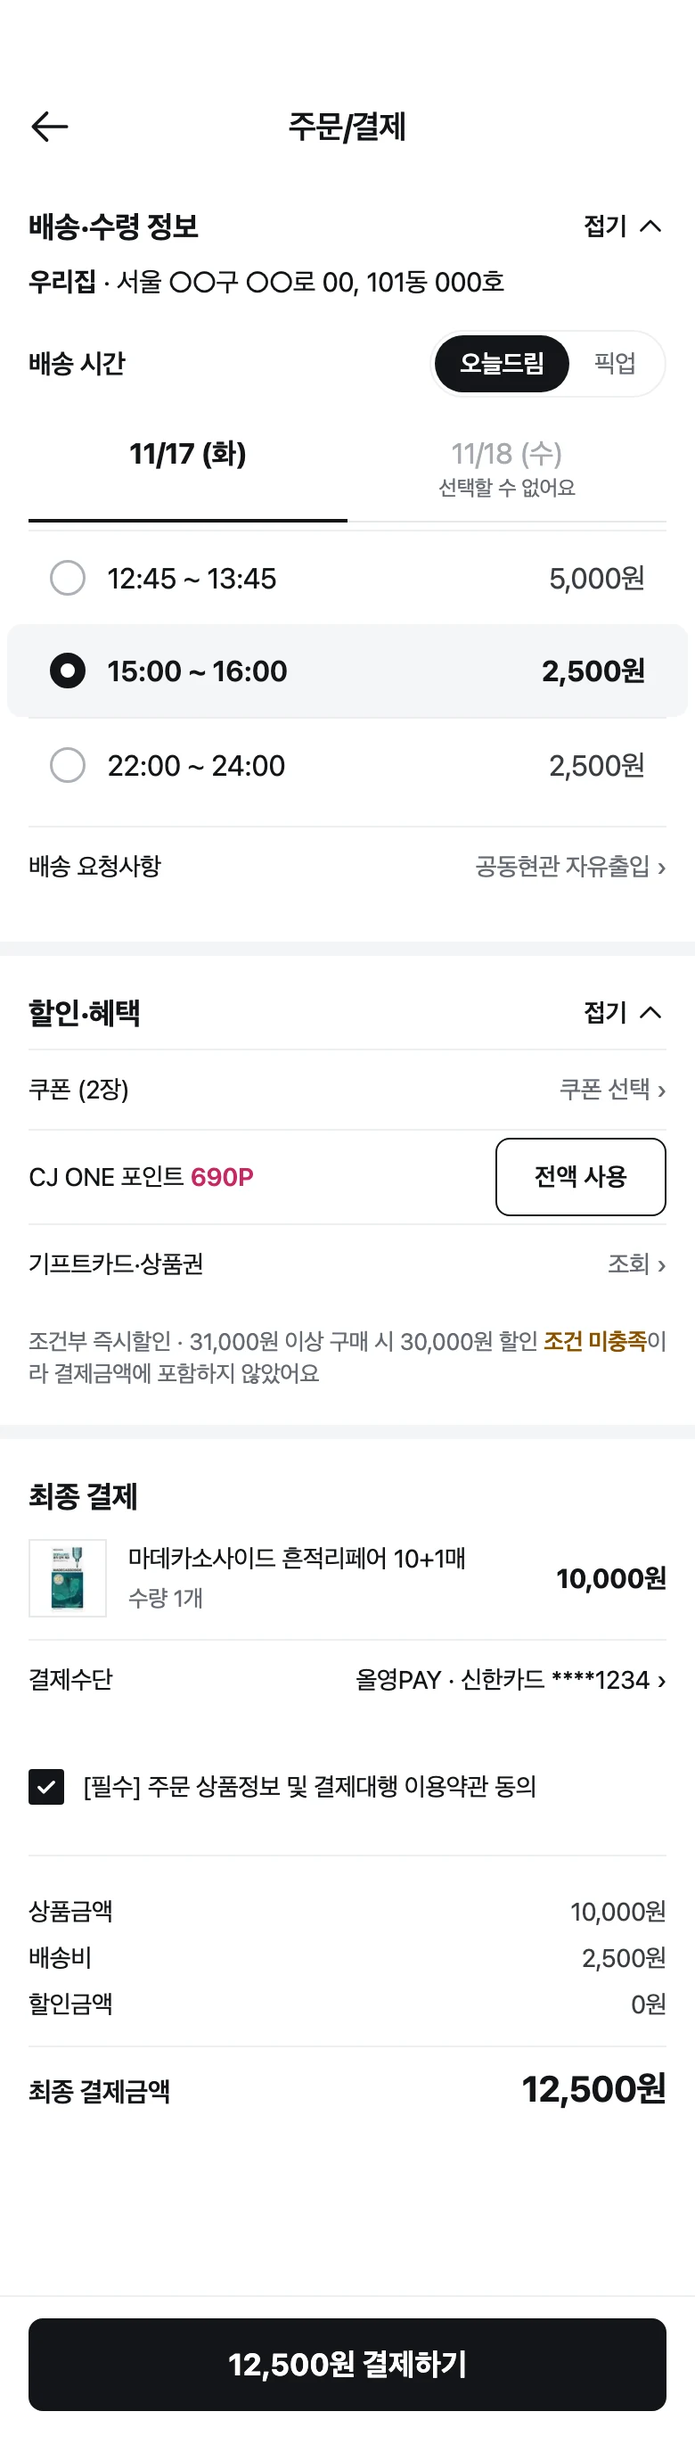
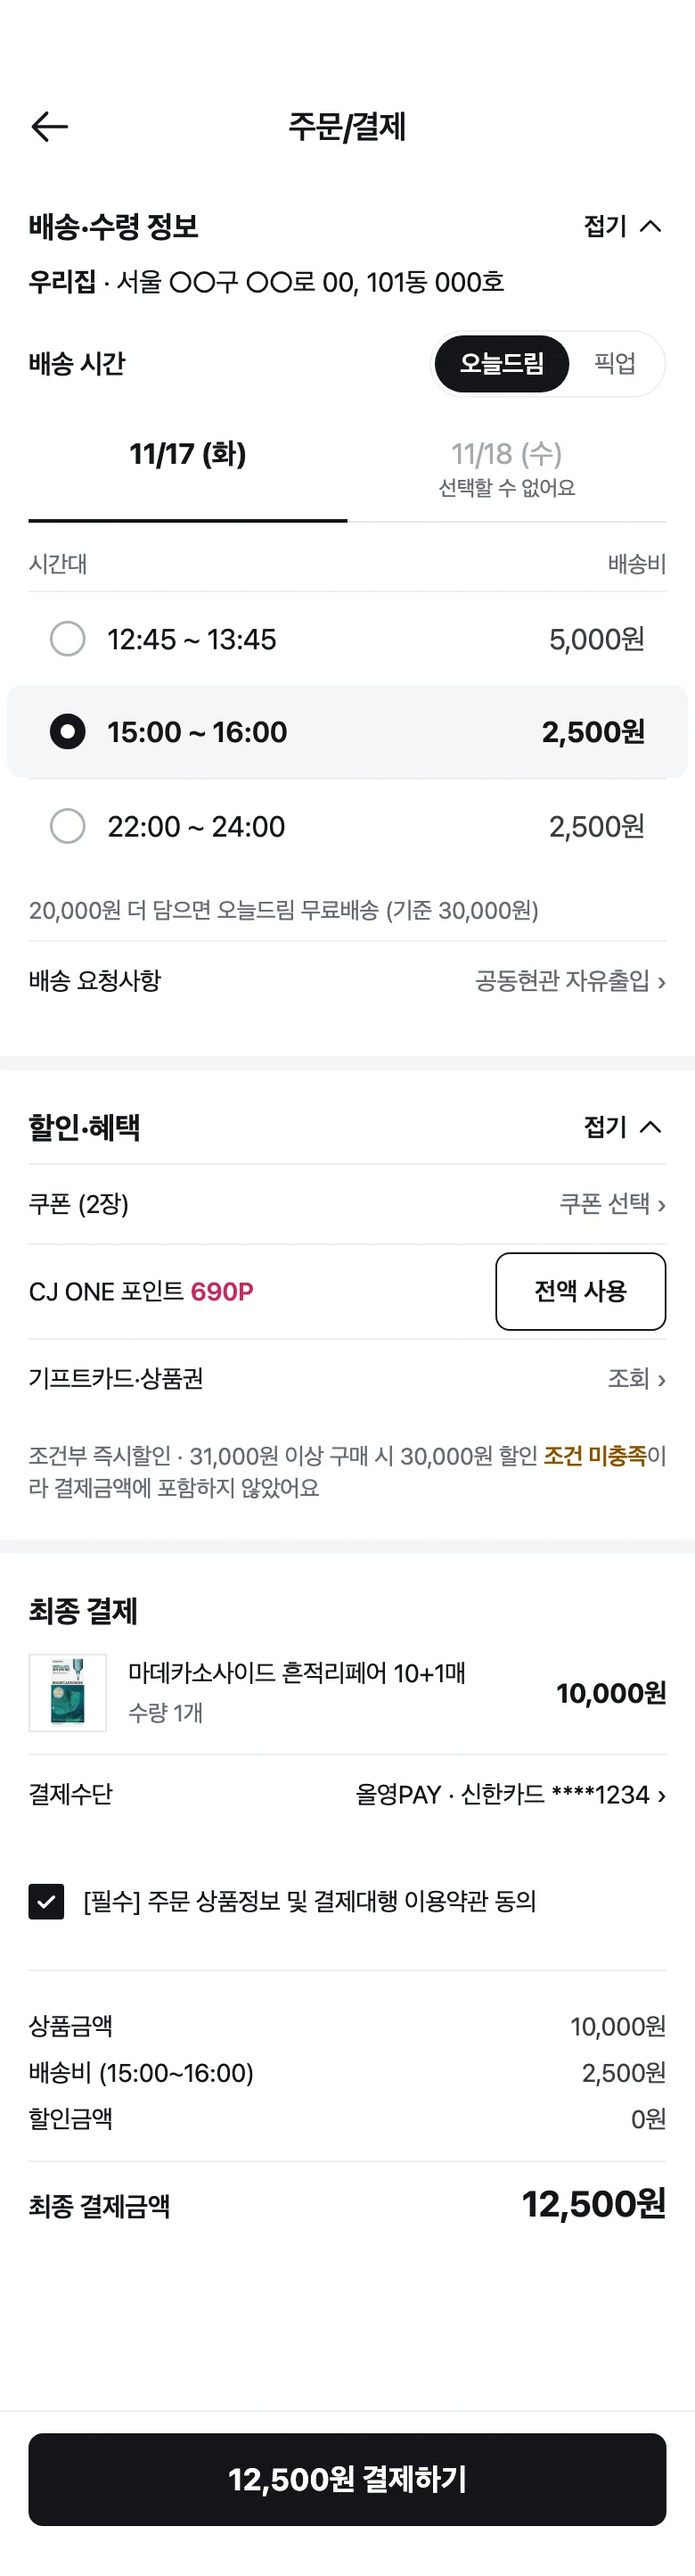
feat: 올리브영 주문/결제를 접힘·펼침 한 화면으로 정리(시간대별 배송비는 펼침 상태), 이미지·문구 갱신

diff --git a/src/data/projects.ts b/src/data/projects.ts
@@ -46,14 +46,14 @@ export const projects: Project[] = [
       intro: '품절 이후의 대체 구매 흐름과 함께 장바구니, 배송 시간, 주문·결제, 상품 상세 하단도 개선했습니다. 구매 결정을 돕기 위한 설계 제안이며, 실제 매출 효과는 측정하지 않았습니다.',
       bullets: [
         '장바구니: 무료배송 기준까지 남은 금액을 안내하고, 함께 담기 좋은 상품을 제안합니다.',
-        '배송 시간: 날짜와 시간대별 배송비를 함께 보여주고, 무료배송까지 남은 금액을 안내합니다.',
+        '배송 시간: 주문/결제의 배송·수령 정보를 펼치면 날짜와 시간대별 배송비를 함께 보여주고, 무료배송까지 남은 금액을 안내합니다.',
         '주문·결제: 한 페이지에 길게 이어지던 정보를 배송·수령 / 할인·혜택 / 최종 결제의 3그룹으로 정리하고 접고 펼 수 있게 했습니다.',
         '상품 상세 하단: 오늘드림과 매장 픽업 중 수령 방법을 고르는 패널로 정리했습니다.',
       ],
       images: [
         { src: '/images/oliveyoung-todaydream/n-checkoutAsis.webp', alt: '기존 주문 결제 화면(실제 앱 캡처)', caption: 'AS-IS 주문/결제' },
         { src: '/images/oliveyoung-todaydream/n-checkoutTobe.webp', alt: '개선 주문 결제 화면: 배송·수령 정보, 할인·혜택, 최종 결제 3그룹', caption: '주문/결제 3그룹' },
-        { src: '/images/oliveyoung-todaydream/n-slot.webp', alt: '배송 날짜와 시간대별 배송비, 무료배송까지 남은 금액 안내', caption: '시간대별 배송비' },
+        { src: '/images/oliveyoung-todaydream/n-slot.webp', alt: '주문/결제를 펼친 상태: 배송·수령 정보 안에서 날짜와 시간대별 배송비, 무료배송까지 남은 금액 안내', caption: '주문/결제 펼침 · 시간대별 배송비' },
         { src: '/images/oliveyoung-todaydream/n-cart.webp', alt: '장바구니: 무료배송까지 남은 금액과 함께 담기 좋은 상품', caption: '장바구니 무료배송 안내' },
       ],
     },
@@ -70,7 +70,7 @@ export const projects: Project[] = [
       },
       {
         before: '/images/oliveyoung-todaydream/n-checkoutAsis.webp', after: '/images/oliveyoung-todaydream/n-slot.webp',
-        beforeAlt: '기존 주문/결제: 배송 시간대를 고른 뒤 아래에 배송비가 한 번 표시된다', afterAlt: '개선 배송 시간 선택: 시간대마다 배송비를 함께 표시',
+        beforeAlt: '기존 주문/결제: 배송 시간대를 고른 뒤 아래에 배송비가 한 번 표시된다', afterAlt: '개선 주문/결제(펼침): 배송·수령 정보 안에서 시간대마다 배송비를 함께 표시',
         points: ['Before: 배송 시간대를 선택한 뒤 별도 영역에서 배송비를 확인한다(12:45~13:45 선택 시 5,000원)', 'After: 12:45~13:45는 5,000원, 15:00~16:00과 22:00~24:00은 2,500원처럼 시간대마다 배송비를 함께 표시한다', '※ Before는 실제 앱 화면을 직접 캡처한 이미지이며 개인정보는 가렸습니다'],
       },
       {

diff --git a/src/pages/CaseGeneric.tsx b/src/pages/CaseGeneric.tsx
@@ -186,7 +186,7 @@ function OliveRenewed({ c }: { c: Ctx }) {
               <div className="rounded-[24px] bg-white p-6 md:p-8"><p className="eyebrow text-sub">디자인 판단</p><p className="mt-3 text-[18px] font-bold leading-[1.55]">배송·수령 정보 / 할인·혜택 / 최종 결제의 세 영역으로 묶고, 핵심은 접힌 상태에서도 확인하게 했어요.</p></div>
             </div>
             {p.beforeAfter?.[3] && <div className="mt-8"><BeforeAfter data={p.beforeAfter[3]} color={A} /></div>}
-            <div className="mt-10 grid grid-cols-2 gap-5 md:mx-auto md:max-w-[760px] md:gap-8"><Fig src={I('n-checkoutOpen')} alt="할인과 혜택 정보를 펼쳐 확인하는 주문 결제 화면" cap="필요할 때 세부 정보 펼치기" /><Fig src={I('n-slot')} alt="배송 시간대와 비용을 함께 비교하는 화면" cap="시간대별 배송비 비교" className="md:mt-14" /></div>
+            <div className="mt-10 grid grid-cols-2 gap-5 md:mx-auto md:max-w-[760px] md:gap-8"><Fig src={I('n-checkoutTobe')} alt="접힌 상태의 주문 결제 화면: 핵심 정보만 요약" cap="접힌 상태 · 핵심 정보만" /><Fig src={I('n-checkoutOpen')} alt="같은 화면을 펼친 상태: 시간대별 배송비와 할인·혜택 세부 정보" cap="같은 화면을 펼치면 · 시간대별 배송비 비교" className="md:mt-14" /></div>
             <ul className="mt-8 grid gap-3 text-[15px] leading-[1.65] sm:grid-cols-2 lg:grid-cols-4">{['접힌 상태에서도 핵심 정보 확인', '시간대와 배송비 관계를 함께 표시', '쿠폰·포인트 조건을 목적별로 확인', '선택 변경 시 금액 정보 일관성 유지'].map(item => <li key={item} className="rounded-[18px] bg-white p-4">{item}</li>)}</ul>
             <Result value="평균 26초 단축" task="배송 시간과 혜택을 확인하고 구매를 결정하는" />
             <p className="mt-5 max-w-[48rem] text-[15px] leading-[1.75] text-sub">목적별로 정보를 그룹화한 개선 프로토타입에서 구매 결정 과제의 평균 시간이 짧게 나타났습니다. 실제 결제 완료율이나 구매 전환율 상승을 검증한 결과는 아닙니다.</p>
